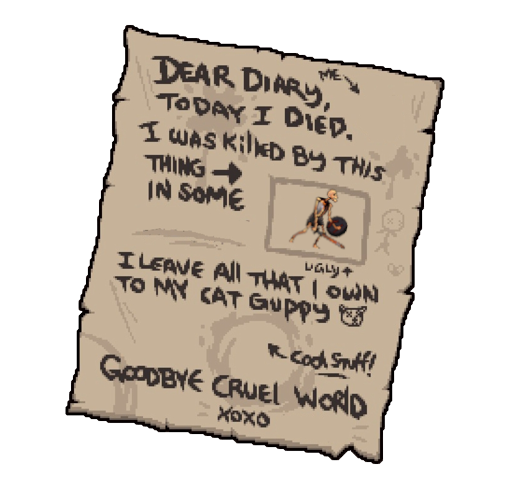
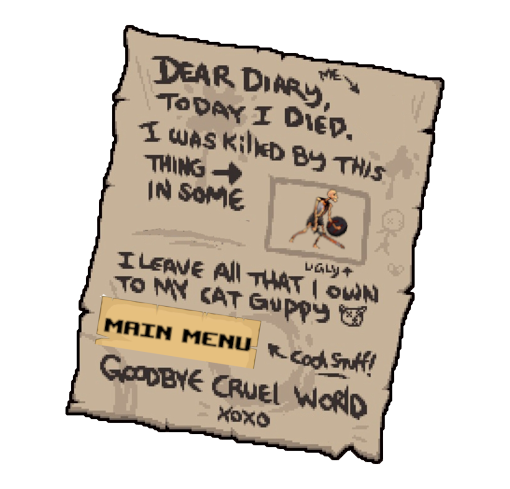
fixedBossReset&deathscreen

Changed region(s): [[0.1765, 0.5828, 0.5294, 0.7669]]

diff --git a/main.py b/main.py
@@ -60,6 +60,8 @@ healthRect = pygame.Rect(550, 435, 45, 50)
 damageRect = pygame.Rect(845, 300, 45, 50)
 # player _____ rectnagle
 luckRect = pygame.Rect(845, 435, 45, 50)
+#deathButton
+deathButton = pygame.Rect(486,440,147,69)
 
 # ////////////////////////////////////////////////////////// #
 #            INITIALIZING GREY MENU ITEM BARS                #
@@ -103,6 +105,14 @@ maxUpgradeCount = 4
 
 
 # initializing fonts for the shop
+
+# initialize death scenes
+skeletonDeathImg = pygame.image.load('Death/skeletonDeath.png')
+goblinDeathImg = pygame.image.load('Death/goblinDeath.png')
+bossDeathImg = pygame.image.load('Death/bossDeath.png')
+deathImgRect = skeletonDeathImg.get_rect()
+deathImgRect.center = screen_rect.center
+selectedDeathImg = None
 
 # initialize shop scene
 shopImg = pygame.image.load('Scenes/menu.png')
@@ -171,7 +181,7 @@ boss_group = pygame.sprite.Group()
 coinItem_group = pygame.sprite.Group()
 
 # boolean flags
-
+deathPlaying = False
 loadPlaying = True
 shopPlaying = False
 bossPlaying = False
@@ -236,6 +246,9 @@ def initializeMobs():
 
 def initializeBoss():
     global boss_group
+    if boss_group:
+        boss_group.empty()
+
     num_of_mobs = 1
     for x in range(num_of_mobs):
         boss_group.add(gameSprites.Boss(
@@ -249,8 +262,8 @@ def render():
     screen.blit(current_img, current_rect)
     if not mob_group and not boss_group and not scene == 'treasure':
         screen.blit(arrowImg, arrow_rect)
+    
     # checking if on start screen
-
     if not loadPlaying:
         # initializing coin text
         global coinCount
@@ -262,7 +275,7 @@ def render():
         healthCount = player_group.sprites()[0].health
         healthCountText = shopFont.render(
             str(healthCount), False, (255, 255, 255))
-        if not win:
+        if not win and not deathPlaying:
             # displaying coin/health background
             screen.blit(textBackground_image, (1125, 570))
             # displaying coin info
@@ -282,7 +295,7 @@ def render():
         coinItem_group.draw(screen) #***************TEST***************#
 
     # //////////////////////////////////////// #
-        if shopPlaying:
+        if shopPlaying and not deathPlaying:
             screen.blit(shopImg, shop_rect)
 
             pygame.draw.rect(screen, upgradeColour, shopUpgradeRects[0])
@@ -325,9 +338,23 @@ def render():
             boss_group.update(player_group.sprites()[
                               0].rect, boss_group, mob_group, player_group.sprites()[0])
             boss_group.draw(screen)
+            
+        if deathPlaying:
+            global selectedDeathImg
+            if(player_group.sprites()[0].whoKilled=="skeleton"):
+                selectedDeathImg = skeletonDeathImg
+            
+            elif(player_group.sprites()[0].whoKilled=="goblin"):
+                selectedDeathImg = goblinDeathImg
+            
+            elif(player_group.sprites()[0].whoKilled=="boss"):
+                selectedDeathImg = bossDeathImg
+            player_group.draw(screen)
+
+            screen.blit(selectedDeathImg,deathImgRect)
 
     # checking if mouse is within game window
-    if pygame.mouse.get_focused() == True and loadPlaying or shopPlaying or win:
+    if pygame.mouse.get_focused() == True and loadPlaying or shopPlaying or win or deathPlaying:
         # adding mouse image to screen
         screen.blit(cursor_img, pygame.mouse.get_pos())
     # refreshing screen
@@ -469,6 +496,11 @@ def collisions():
     if boss_group and pygame.sprite.collide_rect(player,boss_group.sprites()[0]) and boss_group.sprites()[0].framecount == 20:
         player.health -= boss_group.sprites()[0].damage
         player.hit()
+        if player.health >= 0:
+            player.whoKilled = boss_group.sprites()[0].type
+    if(player.health<0):
+        global deathPlaying
+        deathPlaying = True
 
 # Reset shop upgrades
 def resetShop():
@@ -509,6 +541,10 @@ while running:
         if event.type == pygame.MOUSEBUTTONDOWN:
             (posX, posY) = pygame.mouse.get_pos()
 
+            # print("x:" + str(posX) + '- y:' + str(posY))
+
+
+
             # checking collide point of mouse with start button
             if startRect.collidepoint(posX, posY) and loadPlaying:
                 loadPlaying = False
@@ -517,6 +553,15 @@ while running:
             # checking collide point of mouse with exit button
             if exitRect.collidepoint(posX, posY) and loadPlaying:
                 running = False
+
+            #death screen button
+            if deathButton.collidepoint(posX, posY) and deathPlaying:
+                deathPlaying = False
+                sceneBuilder("mainMenu")
+                resetShop()
+                stage = 0
+                loadPlaying = True
+                bossPlaying = False
 
             # ending game
             if exitRectFinal.collidepoint(posX, posY) and win:
@@ -531,8 +576,10 @@ while running:
             if menuExitRect.collidepoint(posX, posY) and shopPlaying:
                 shopPlaying = False
                 loadPlaying = True
-                sceneBuilder("mainMenu")
                 resetShop()
+                stage = 0
+                sceneBuilder("mainMenu")
+                bossPlaying = False
 
             if speedRect.collidepoint(posX, posY) and shopPlaying:
                 if shopUpgradeCounts[0] <= maxUpgradeCount and coinCount >= shopUpgradeCosts[0]:

diff --git a/gameSprites.py b/gameSprites.py
@@ -23,6 +23,7 @@ class GameObject(pygame.sprite.Sprite):
         self.rect.center = (centerX,centerY)
         self.health = health
         self.damage = damage
+        self.whoKilled = ''
 #player sprite
 class Player(GameObject):
     def __init__(self,img_path,health,damage,kill_counter,coins):
@@ -374,6 +375,8 @@ class Mob1(GameObject):
                 self.currentAttack = 0
                 self.isAttacking = False
                 player.health -= self.damage
+                if player.health > 0:
+                    player.whoKilled = self.type
                 player.hit()
             if(self.direction == 'r'):
                 self.image = self.attackRightSprites[int(self.currentAttack)]
@@ -595,6 +598,8 @@ class Mob2(GameObject):
                 self.currentAttack = 0
                 self.isAttacking = False
                 player.health -= self.damage
+                if player.health > 0:
+                    player.whoKilled = self.type
                 player.hit()
             if(self.direction == 'r'):
                 self.image = self.attackRightSprites[int(self.currentAttack)]
@@ -694,6 +699,7 @@ class Boss(GameObject):
         self.framecount = 0
         self.framecountmobspawn = 0
         self.playerDamage = 0
+        self.type = "boss"
 
         
 
